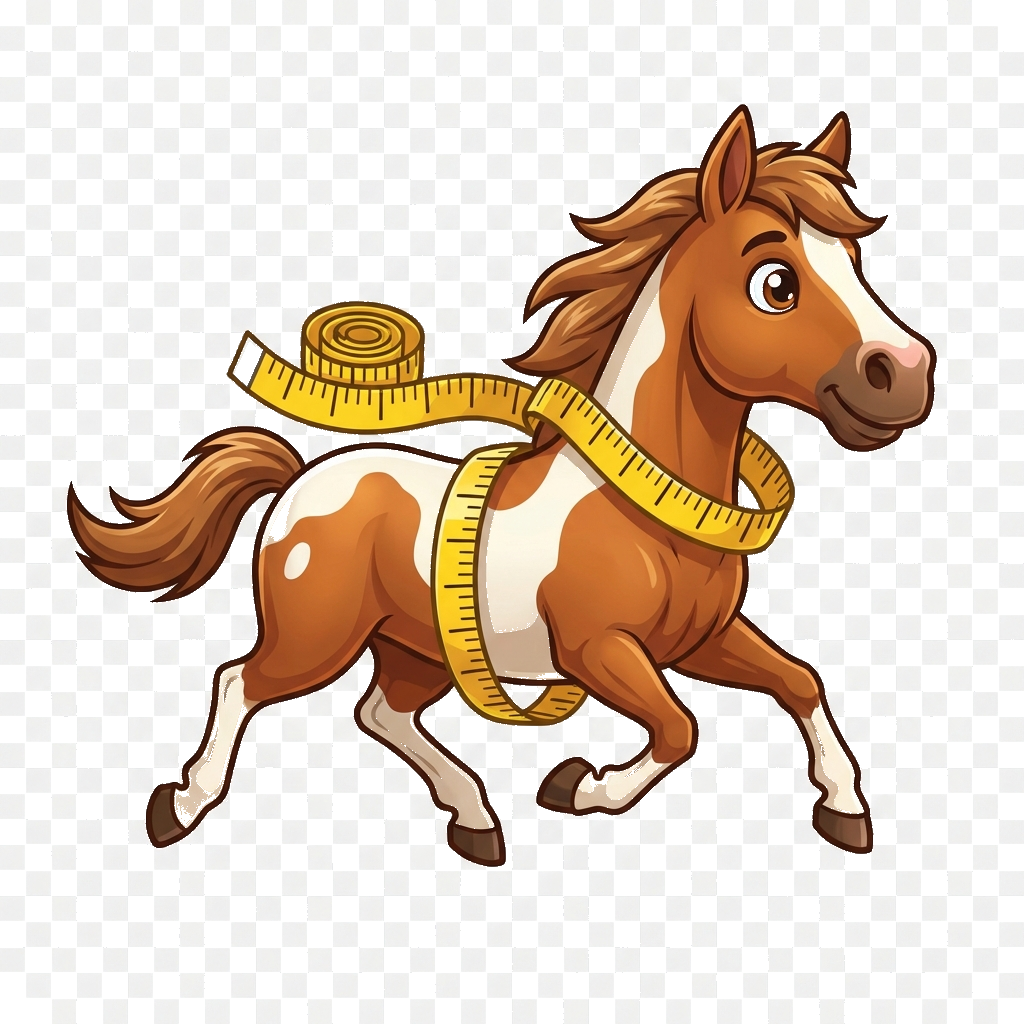
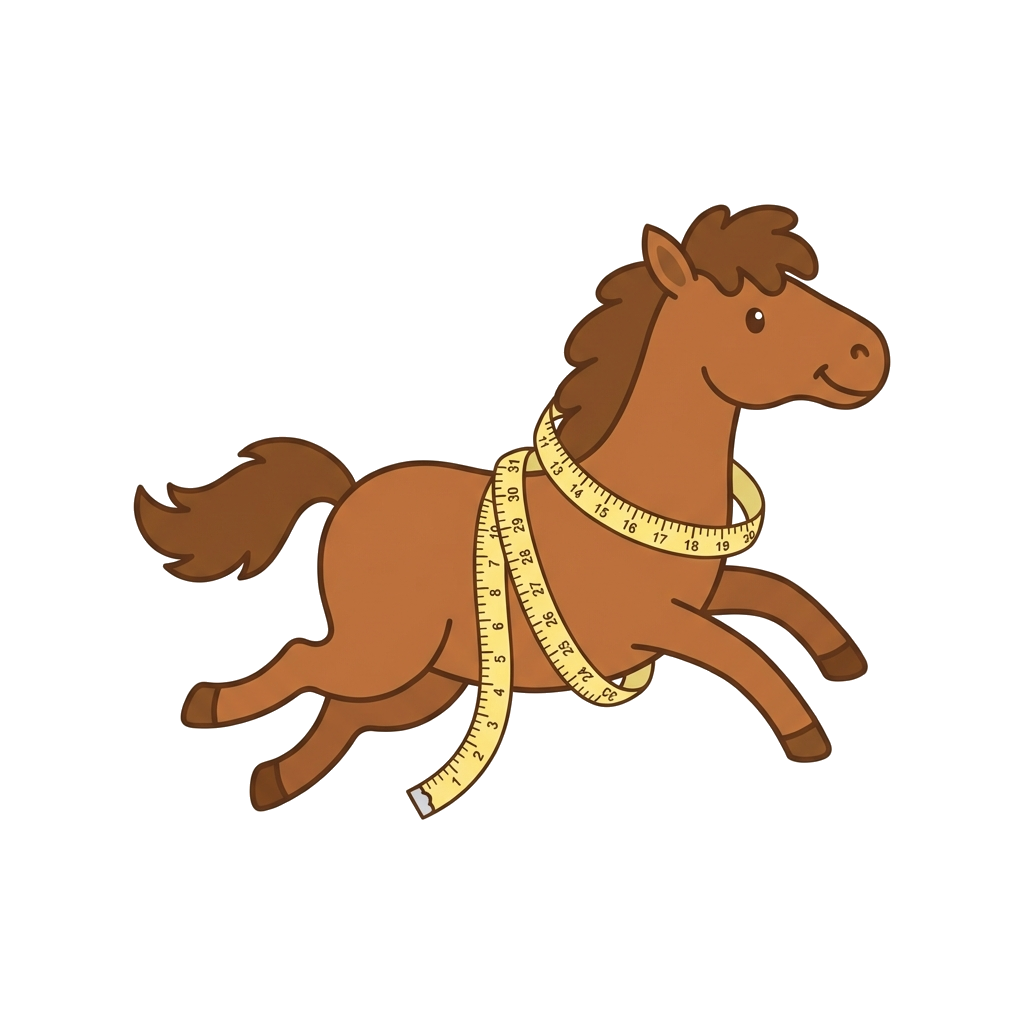
fix: 更新6隻新造型馬(v2)並修正明昌版賽道路徑

Changed region(s): [[0.0625, 0.0938, 0.9375, 0.8438]]

diff --git a/templates/host.html b/templates/host.html
@@ -1217,18 +1217,18 @@
             { x: 28, y: 52 },   // 9: FINISH
         ];
 
-        // 明昌五金行版 waypoints (0,4,5,9 moved up by 10% from original)
+        // 明昌五金行版 waypoints (Adjusted for track background)
         const mingchangWaypoints = [
-            { x: 63, y: 42 },   // 0: START - moved up 10%
-            { x: 82, y: 44 },   // 1: right curve - lower part
-            { x: 90, y: 32 },   // 2: right curve - middle (rightmost)
-            { x: 82, y: 20 },   // 3: right curve - upper part
-            { x: 68, y: 2 },    // 4: top straight - right end - moved up 10%
-            { x: 32, y: 2 },    // 5: top straight - left end - moved up 10%
-            { x: 14, y: 20 },   // 6: left curve - upper part
-            { x: 8, y: 32 },    // 7: left curve - middle (leftmost)
-            { x: 14, y: 44 },   // 8: left curve - lower part
-            { x: 28, y: 42 },   // 9: FINISH - moved up 10%
+            { x: 70, y: 70 },   // 0: START (Bottom Straight Right)
+            { x: 85, y: 65 },   // 1: Turn 1 Entry
+            { x: 92, y: 50 },   // 2: Turn 1 Apex
+            { x: 85, y: 35 },   // 3: Turn 1 Exit
+            { x: 70, y: 30 },   // 4: Top Straight Right
+            { x: 30, y: 30 },   // 5: Top Straight Left
+            { x: 15, y: 35 },   // 6: Turn 2 Entry
+            { x: 8, y: 50 },    // 7: Turn 2 Apex
+            { x: 15, y: 65 },   // 8: Turn 2 Exit
+            { x: 30, y: 70 },   // 9: FINISH (Bottom Straight Left)
         ];
 
         // Get current theme's waypoints
